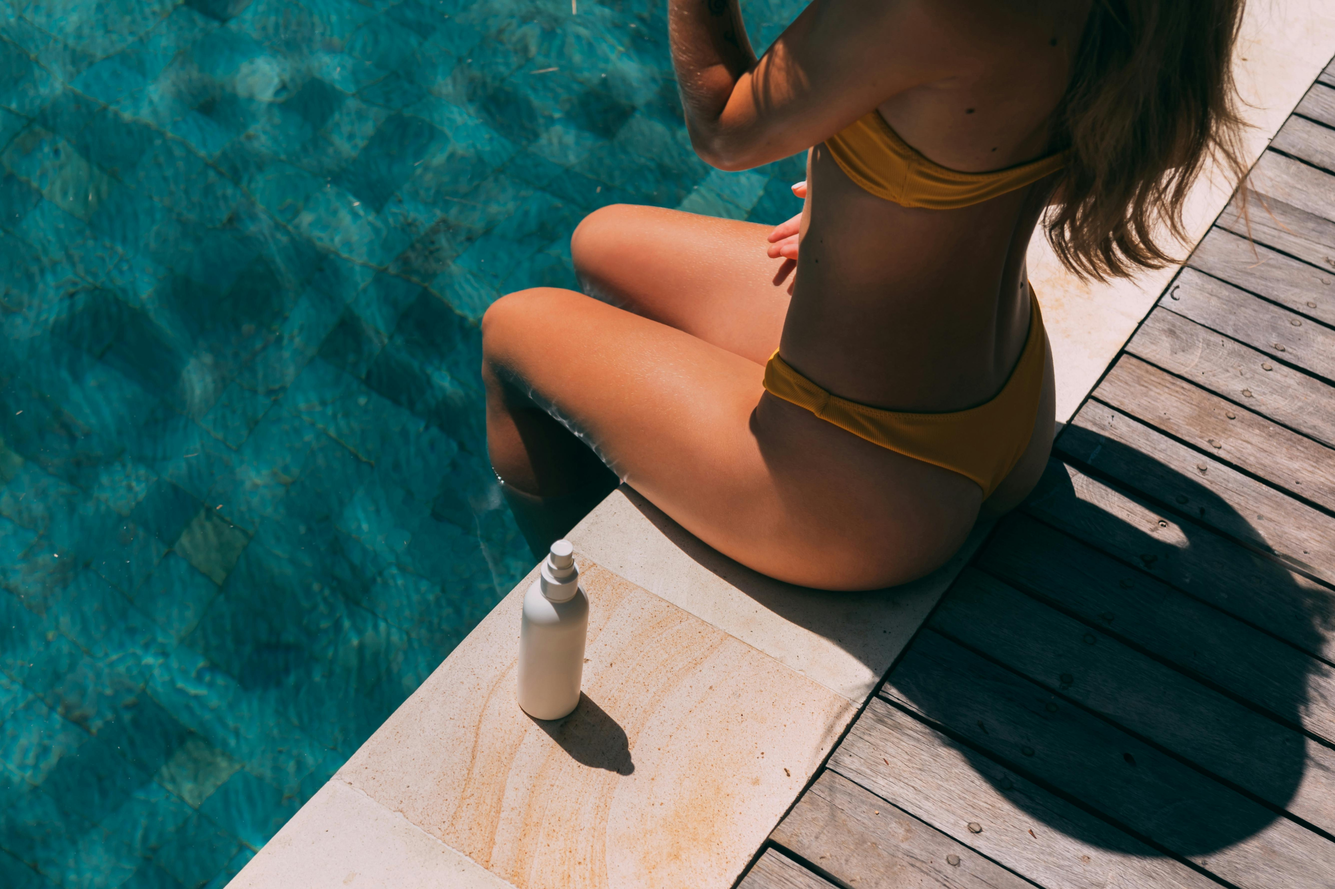
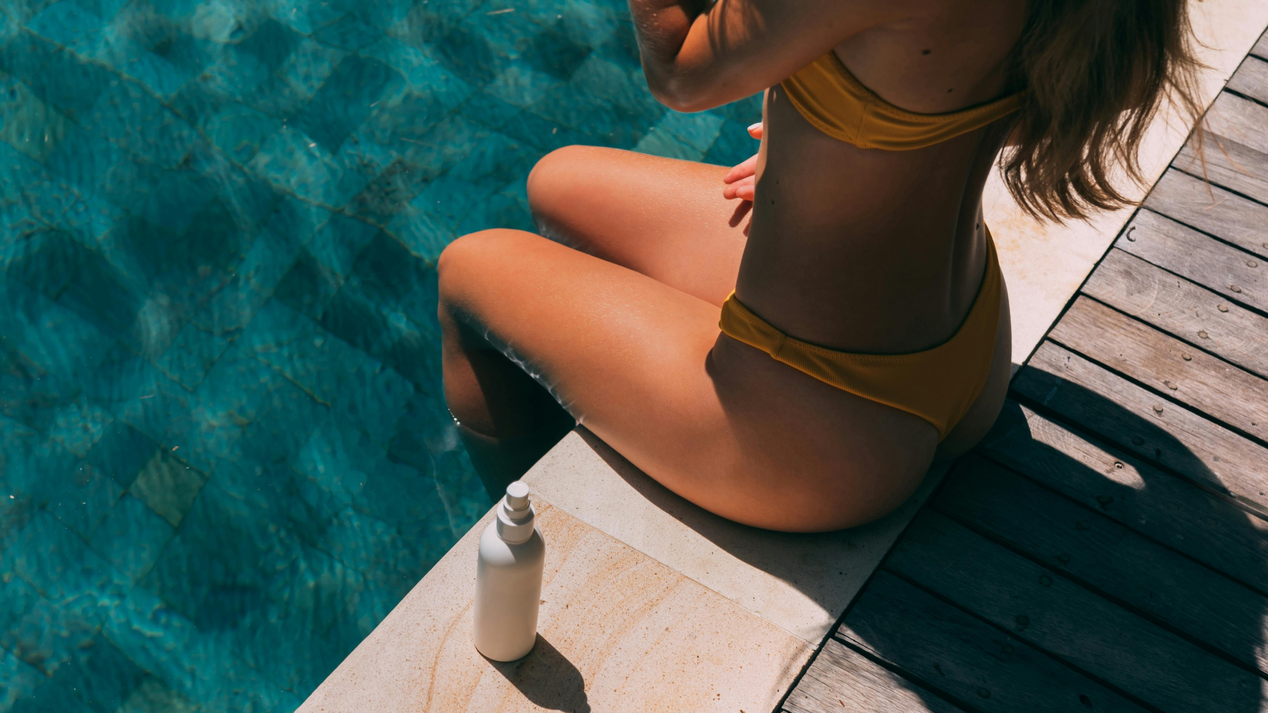
atualizando

diff --git a/E-commerce/src/index.css b/E-commerce/src/index.css
@@ -1,18 +1,18 @@
-@import url('https://fonts.googleapis.com/css2?family=Delius&family=Sour+Gummy:ital,wght@0,100..900;1,100..900&display=swap');
+@import url('https://fonts.googleapis.com/css2?family=Gelasio:ital,wght@0,400..700;1,400..700&family=Noto+Serif+Display:ital,wdth,wght@0,62.5..100,100..900;1,62.5..100,100..900&display=swap');
 
 :root {
 --primary-color: #894f2f;
 --secondary-color: #eaa24a;
---title: #422e1f;
+--title: #d9bdaf;
 --contrast: #eaa24a;
 --text-base: #422e1f;
 --cta: #f05a30;
 --background: #0b595c;
 --text-color: #e7c295;
---gradient1: linear-gradient(135deg, #70a9e9, #eaa24a);
---gradient2: linear-gradient(135deg, #da42c5, #303438);
---font-base: "Delius", cursive;
---font-tiltle: "Sour Gummy", sans-serif;
+--gradient1: linear-gradient(135deg, #c34930, #d9bdaf);
+--gradient2: linear-gradient(135deg, #f05a30, #d9bdaf);
+--font-base: "Gelasio";
+--font-tiltle: "Noto+Serif+Display"
 }
 
 *{
@@ -36,7 +36,7 @@ h3 {
 }
 
 img {
-    width: 100%;
+    width: 60%;
     height: auto;
     object-fit: cover;
 }
@@ -77,7 +77,7 @@ img {
 }
 
 .anuncio-conteudo p {
-    display: inline;
+    display: inline-block;
     animation: textoCorrido 10s linear infinite;
 }
 

diff --git a/E-commerce/src/components/Capa/Capa.css b/E-commerce/src/components/Capa/Capa.css
@@ -1,0 +1,41 @@
+.secao_capa {
+    height: 80vh;
+    width: 100%;
+    background-size: cover;
+    background-repeat: no-repeat;
+    background-position: center right;
+    display: flex;
+    justify-content: flex-start;
+    font-family: var(--font-title);
+    padding: 0 5%;
+    overflow: hidden;
+    position: relative;
+}
+
+.texto {
+    position: relative;
+    z-index: 2;
+    display: flex;
+    flex-direction: column;
+    justify-content: center;
+    align-items: center;
+    height: 100%;
+    max-width: 800px;
+    text-align: center;
+}
+
+.texto h2 {
+    font-size: 60px;
+    color: var(--title);
+    font-weight: 600;
+    margin: 0;
+    text-shadow: 2px 2px 4px rgba(0, 0, 0, 0.5);
+}
+
+.texto h1 {
+    font-size:  140px;
+    margin: 0;
+    color: var(--title);
+    font-weight: bold;
+    text-shadow: 2px 2px 4px rgba(0, 0, 0, 0.5);
+}

diff --git a/E-commerce/src/components/Capa/index.jsx b/E-commerce/src/components/Capa/index.jsx
@@ -1,2 +1,19 @@
 import './Capa.css';
-import banner from '../../assets/banner.jpg'
+import banner from '../../assets/banner.jpg';
+import bannerMobile from '../../assets/banner_mobile.jpg';
+
+export default function Capa() {
+    return (
+        <section className='secao_capa'
+            style={{
+                backgroundImage: `url(${banner})`,
+            }}
+        >
+            <div className='texto'>
+                <h2>Preview</h2>
+                <h1>Verão</h1>
+                <button className='btn'>Comprar</button>
+            </div>
+        </section>
+    )
+}

diff --git a/E-commerce/src/App.jsx b/E-commerce/src/App.jsx
@@ -1,5 +1,6 @@
 import './App.css'
 import Topo from './components/Topo'
+import Capa from './components/Capa'
 
 function App() {
 
@@ -8,6 +9,10 @@ function App() {
       <header>
         <Topo />
       </header>
+
+      <main>
+        <Capa/>
+      </main>
     </div>
   )
 }
